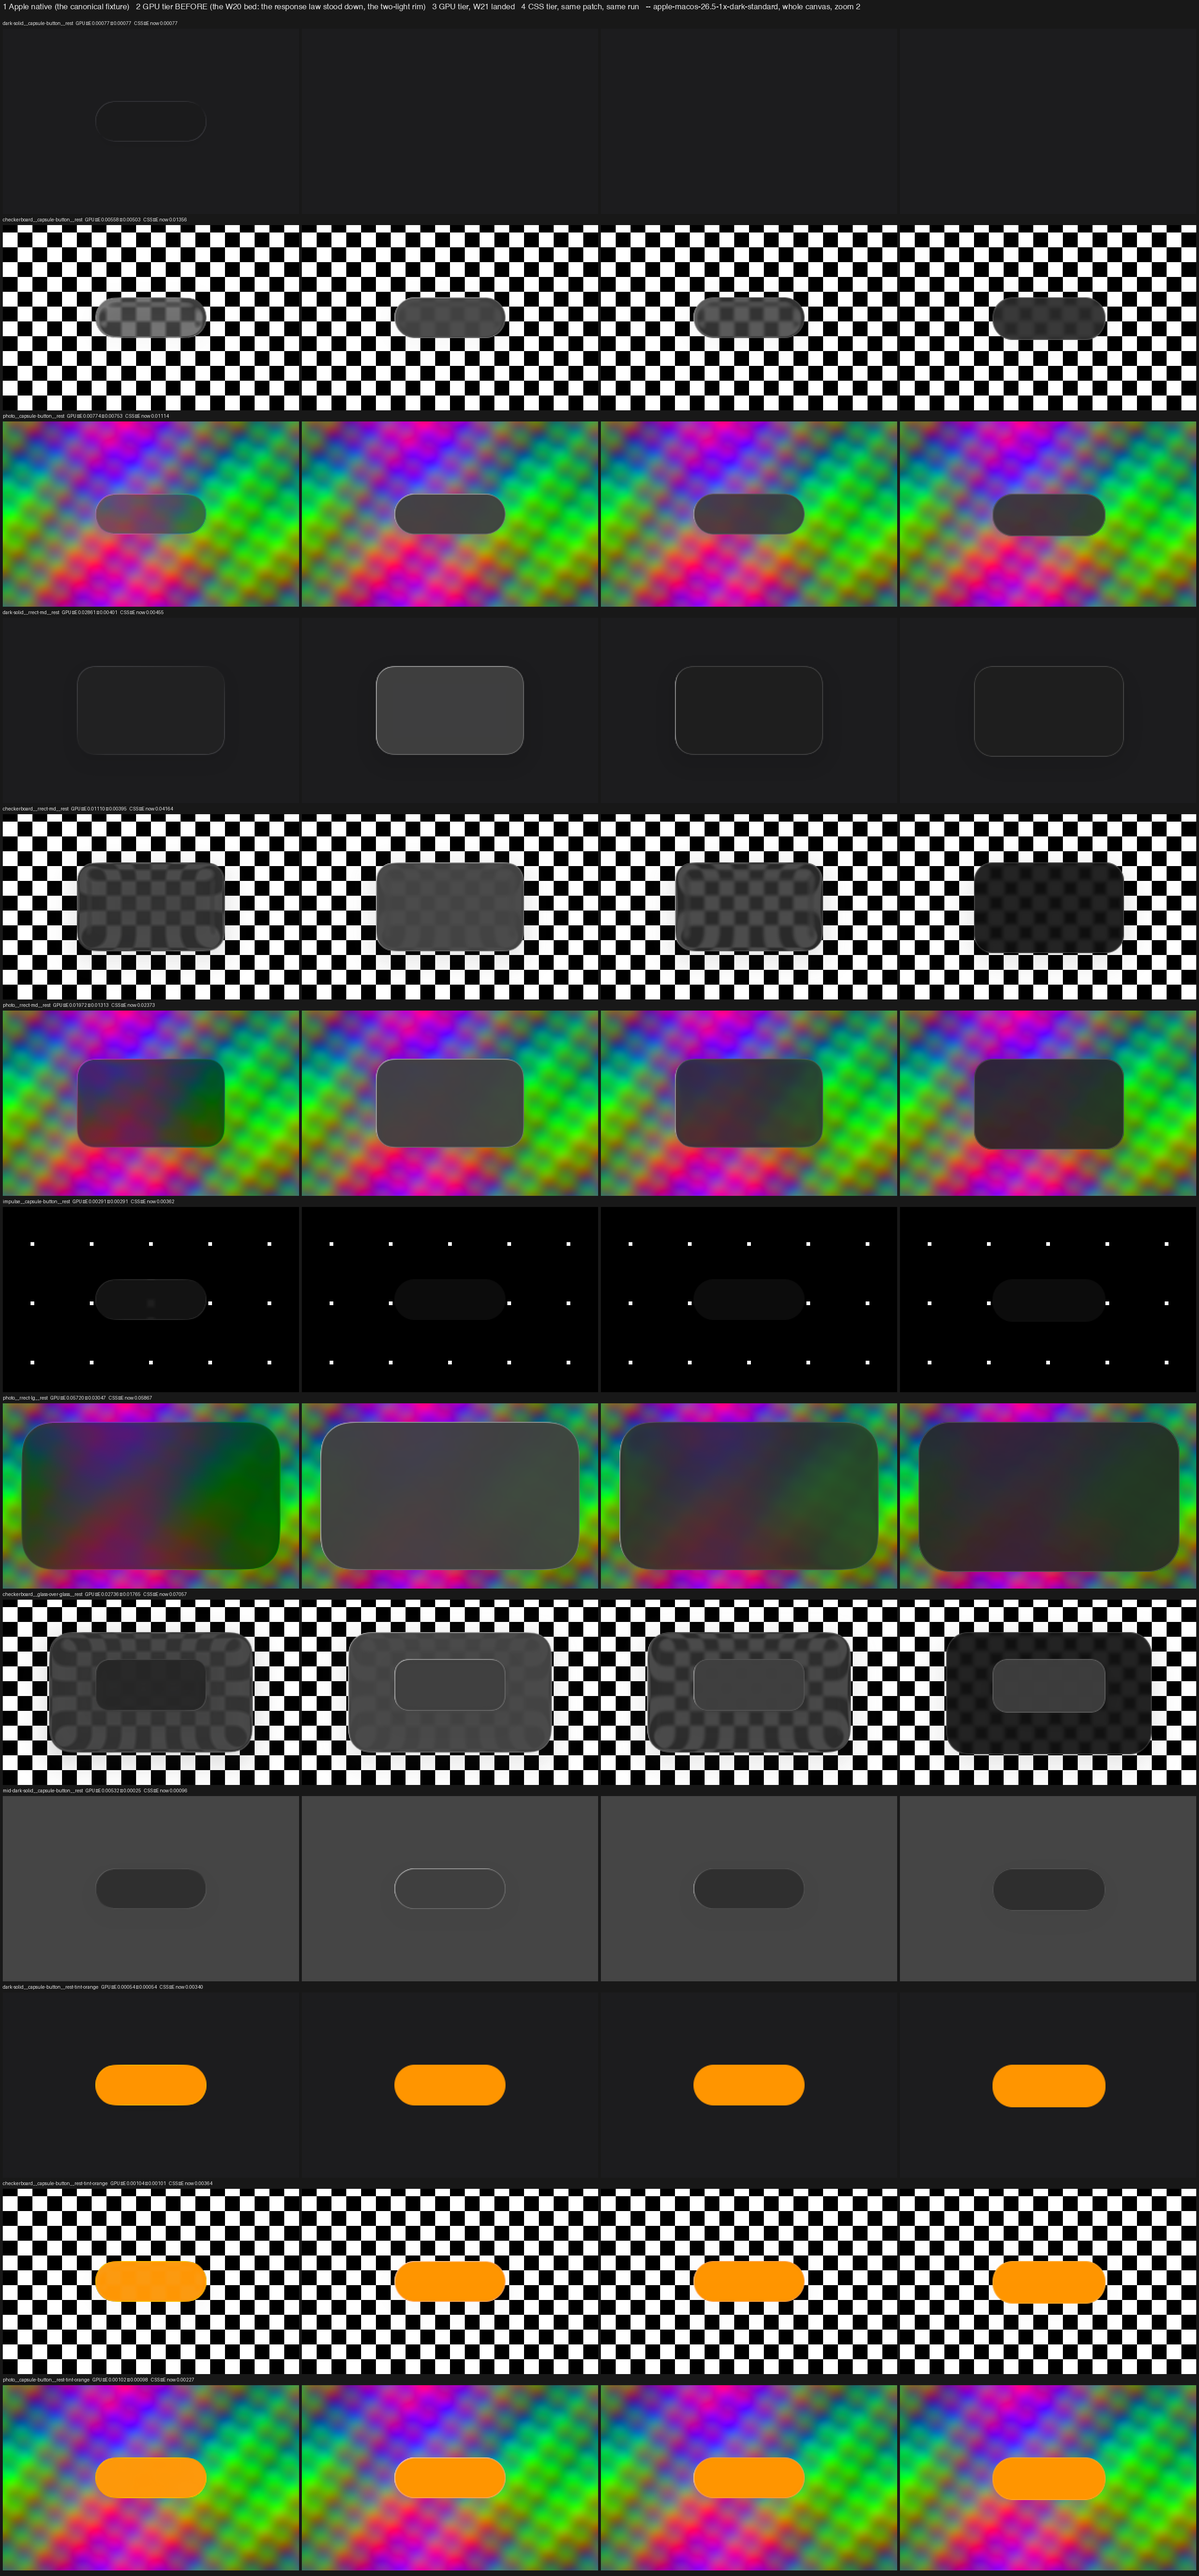
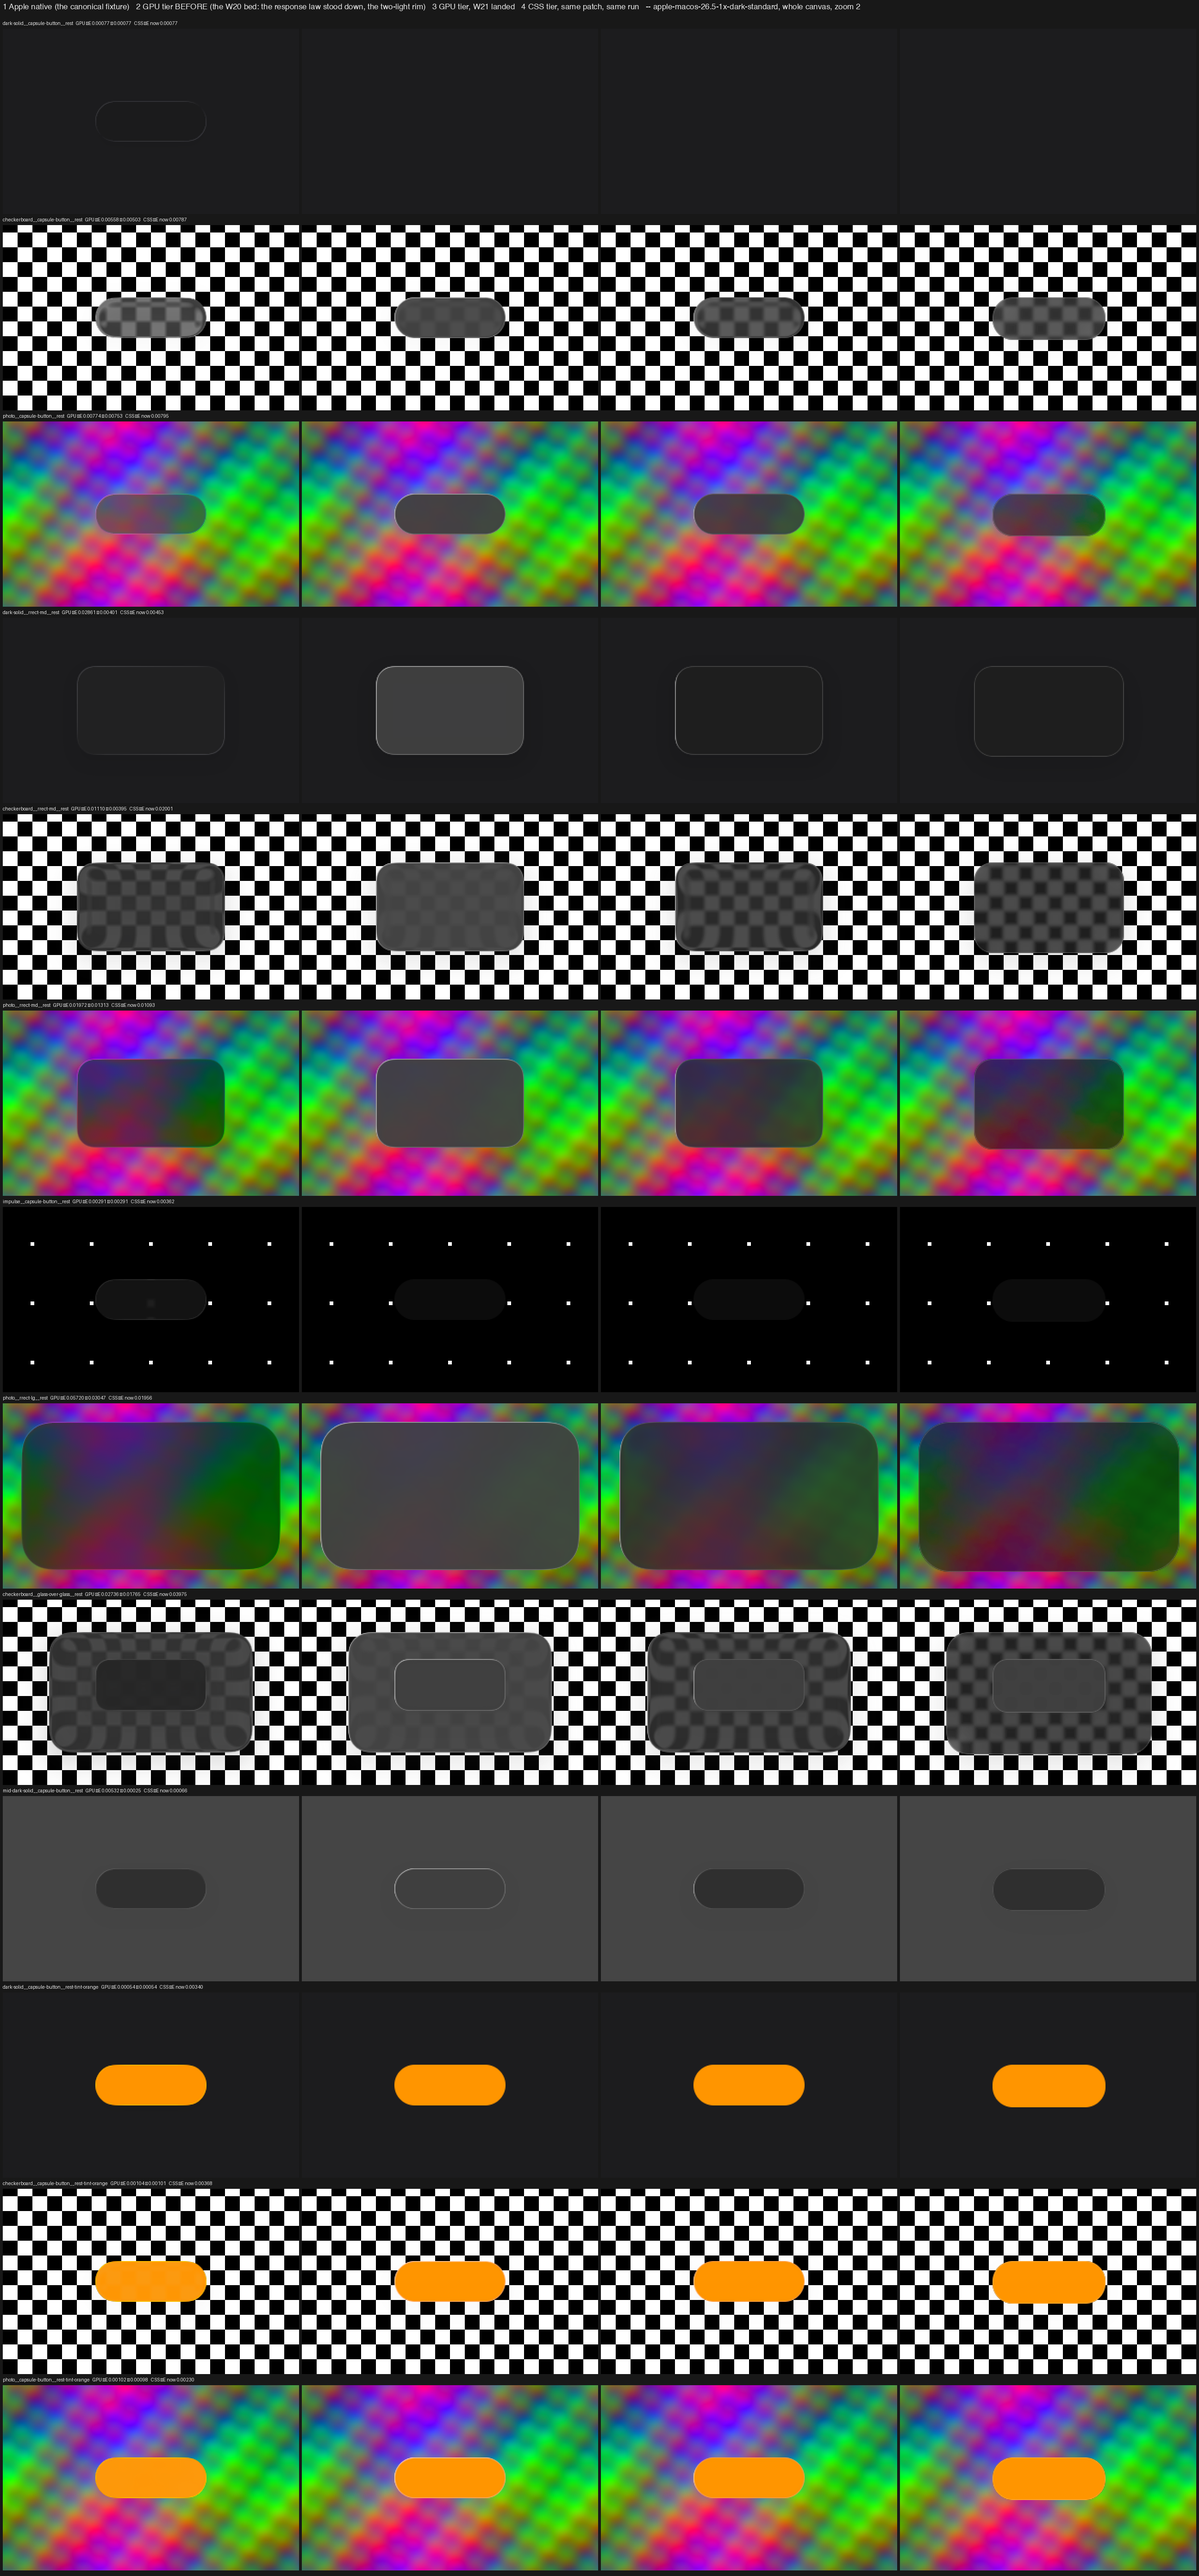
W21 G2c: the sheets the eye rules on, and the changeset's CSS sentence made true
W21 Decision Log 4 (e), the last of the landing. (`g2c/g2c-landing.md` rode with the bed in the
previous commit, where the numbers it cites live.)

The sheets' CSS column regenerated from the landed captures (`sheets/g2-1x.png`, `g2-2x.png`,
thirteen rows each, contract X5). What the eye reads agrees with the numbers: the CSS panel now sits
beside the GPU panel rather than beside the background — over the checkerboard the board reads
through the surface at the GPU tier's strength where G2's CSS panel was a near-black slab, and the
photograph cells and the nested pane follow — while the solids and `impulse` are indistinguishable
across panels 1, 3 and 4 and the tinted rows across all four. One difference the metrics do not catch
is recorded rather than claimed away: over the checkerboard the CSS panel still carries a little more
high-frequency board structure than the GPU panel, which is the one-`blur()` body against the
renderer's two-component scatter (claims §5.42 §5, §5.73) and not this wave's — but it is now the
visible residual on those cells, where before it was hidden under a level error four times larger.

The changeset's CSS paragraph said the dark material was right over a solid background and still too
dark over a busy one, with the diagnosis named as future work. That is no longer true and it now says
what is: both corrections in a user's words, the two tiers' interior brightness agreeing to within 8%
[…]

diff --git a/.changeset/dark-scheme-measured.md b/.changeset/dark-scheme-measured.md
@@ -26,12 +26,32 @@ held-out scenes — read once, after the constants were frozen — from 0.0300 t
 with all three cells improving; the worst dark cell in the bed, a large panel over a
 photograph, halves.
 
-One honest limit. On the CSS tier the dark material is right over a solid background
-and still too dark over a busy one: two layers resolve the response from a single
-backdrop level for the whole surface, so a panel over a checkerboard lands well below
-where the WebGPU tier and Apple both put it. The WebGPU tier is the fidelity target
-and the CSS tier derives what its layers can carry; the residual is recorded with its
-cause and the diagnosis is named work, not a mystery.
+**The CSS tier follows it, over busy backgrounds too.** A browser without WebGPU draws
+the same material through `backdrop-filter`, and getting the dark scheme right there
+took two corrections that arrived with it. The layer that carries the tint was being
+matched to the renderer at one fixed backdrop brightness, a number fitted back when
+the light material was; on the dark material every tint sits at that same brightness,
+so the match had nothing left to measure and a panel over a checkerboard landed at a
+quarter of its level. It is now matched at the backdrop the surface actually sampled.
+And the tier chooses between two ways of drawing the tint — one exact but carried
+through a filter chain that holds only eight bits, one approximate but carried in the
+page's own space — where before it picked by asking how coarse the filter chain was
+and nothing else. It now draws whichever of the two lands nearer the renderer, which
+over a busy dark background is the exact one by a wide margin and over a near-black
+solid is still the other. Measured across the dark bed, the two tiers' interior
+brightness now agrees to within 8% where it differed by as much as 3.9x, and the CSS
+tier's own colour difference against Apple falls from 0.0116 to 0.0068 on the calibration
+scenes and from 0.0434 to 0.0200 on the held-out ones.
+
+One honest limit remains, and it is the instrument rather than the material: on one
+held-out scene — a glass panel nested inside another glass panel, over a checkerboard,
+at 2x — the measurement that recovers a surface's outline from its backdrop finds a
+smaller and more perforated shape than it used to, precisely because the surface now
+matches its surroundings as closely as Apple's does. Four shape readings on that one
+scene are held at their measured values with the reason recorded; nothing about the
+drawn shape moved, and the instrument that reads the drawn shape against its own
+declaration still reports it correct to one pixel.
 
 Recorded in `docs/doperpowers/specs/c9a-fidelity-claims.md` §5.87 (the finding),
-§5.88–§5.89 (the dark reference measured) and §5.90 (the form declared and dry-run).
+§5.88–§5.89 (the dark reference measured) and §5.90 (the form declared, dry-run and
+landed on both tiers).
